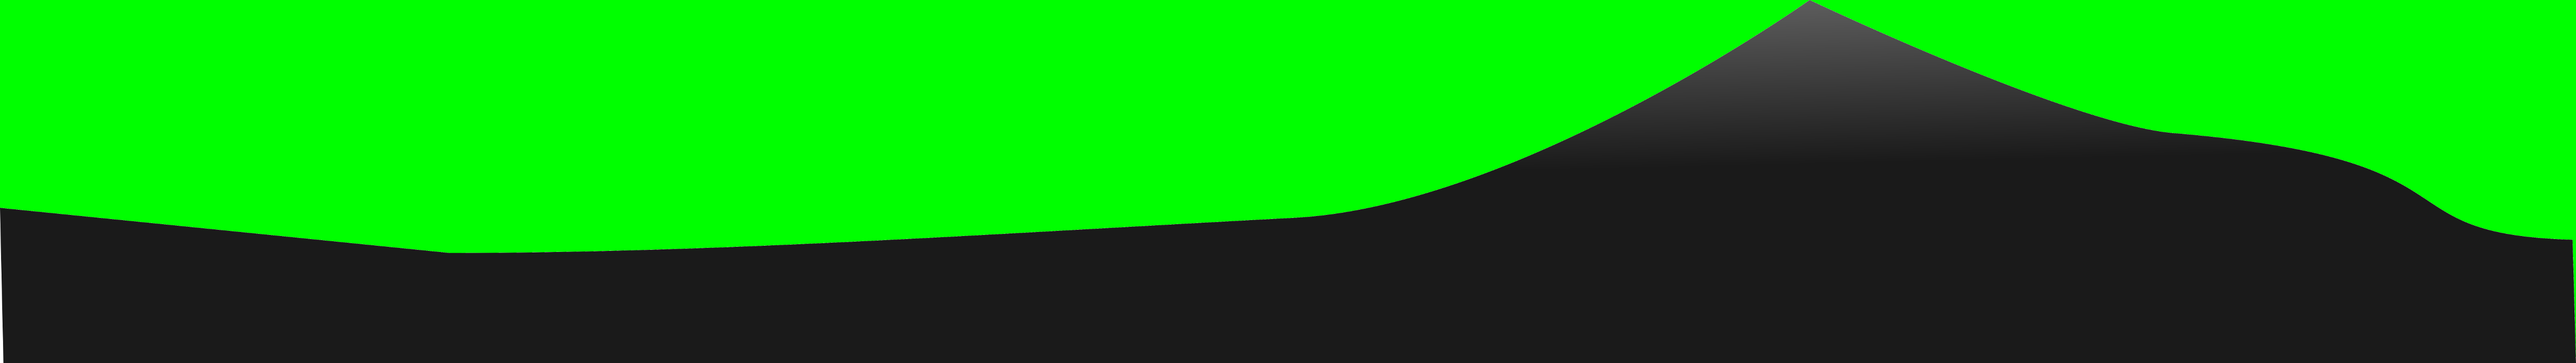
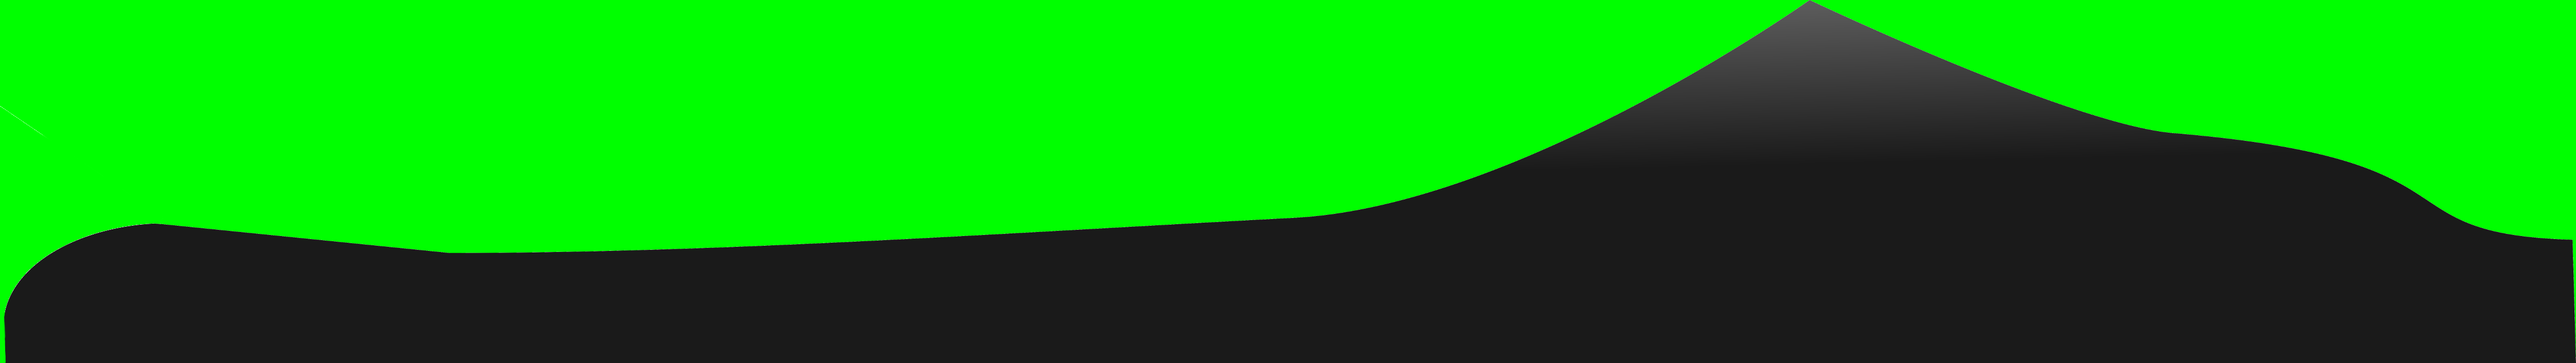
Updated seamless background, and edited level work that still is incomplete

Changed region(s): [[0.0, 0.5609, 0.0624, 0.8414]]

diff --git a/karenS.cpp b/karenS.cpp
@@ -2,6 +2,16 @@
 //Modified Date: 6/24/2017
 //Week 4
 //On this program, I am in charge of the background.
+//===============================================================
+//Week 7
+//Changed made: Added code for tiles, still need to edit
+//
+//===============================================================
+//Week 8
+//Changes made: Fixed parallax scrolling
+//              Added the ground by rendering it
+//              Tiles are currently being fixed
+//===============================================================
 #include <stdio.h>
 #include <stdlib.h>
 #include <string.h>
@@ -11,6 +21,7 @@
 #include <X11/Xlib.h>
 #include <X11/keysym.h>
 #include <GL/glx.h>
+#include <cmath>
 #include "log.h"
 #include "ppm.h"
 #include "fonts.h"
@@ -38,8 +49,9 @@ using namespace std;
         }
     }
 }
-*/
+ */
 #include <iostream>
+
 class SpriteWrapAround : public Sprite {
 public:
 
@@ -52,22 +64,36 @@ public:
 
     void draw()
     {
-        Sprite::draw();
-        std::cout << "Camera location: (" << gl.camera[0] << "," << gl.camera[1] << ")\n";
-        std::cout << "Sprite location: (" << getPosX() << "," << getPosY() << ")\n";
-        std::cout << "Sprite Dim: (" <<getWidth() << "," << getHeight() << ")\n";
-        std::cout << "resolution: (" << gl.xres << "," << gl.yres << ")\n";
-        float oldx = getPosX();        
-        float times = std::floor((-gl.camera[0]+gl.xres) / getWidth());
-        std::cout << "times: (" << times<< ")\n";
-        setPos(oldx + times * getWidth(), getPosY());
-        std::cout << "setPos1: (" << oldx + times * getWidth() << ")\n";
-        Sprite::draw();
-        //Then at this position so it wraps around
-        setPos(oldx - gl.xres + (times+1) * getWidth(), getPosY());
-        std::cout << "setPos2: (" << (oldx - gl.xres + (times+1) * getWidth()) << ")\n";
-        Sprite::draw();
-        setPos(oldx, getPosY());
+        //Calculate the sprite frame and size
+        //and location
+        float camX = -gl.camera[0];
+        float cx = posX;
+        float cy = posY;
+        float h2 = height / 2.0;
+        float repeatX = (camX - cx) / gl.xres;
+        float xc0 = 0 + repeatX;
+        float xc1 = (float) gl.xres / origWidth + repeatX;
+
+        glPushMatrix();
+        glColor3f(1.0, 1.0, 1.0);
+        glBindTexture(GL_TEXTURE_2D, glTexture);
+
+        glEnable(GL_ALPHA_TEST);
+        glAlphaFunc(GL_GREATER, 0.0f);
+        glColor4ub(255, 255, 255, 255);
+
+        glBegin(GL_QUADS);
+        glTexCoord2f(xc0, 1);
+        glVertex2i(camX, cy - h2);
+        glTexCoord2f(xc0, 0);
+        glVertex2i(camX, cy + h2);
+        glTexCoord2f(xc1, 0);
+        glVertex2i(gl.xres + camX, cy + h2);
+        glTexCoord2f(xc1, 1);
+        glVertex2i(gl.xres + camX, cy - h2);
+        glEnd();
+        glBindTexture(GL_TEXTURE_2D, 0);
+        glPopMatrix();
     }
 };
 
@@ -75,32 +101,41 @@ void initBackgroundSprites()
 {
     globalSprite.background[0] = new Sprite("bg.png", 1, 1, 1, 1, 1200, 5000);
     globalSprite.background[1] = new Sprite("moon.png", 1, 1, 1, 1, 100, 100);
-    //globalSprite.background[1]->setPos(5000 / 2, 0.8 * gl.yres);
-    globalSprite.background[2] = new SpriteWrapAround("mountain-bg.png", 513, 5000);
-    //globalSprite.background[2]->setPos(5000 / 2, 360);
-    globalSprite.background[3] = new SpriteWrapAround("mountain-fg.png", 703, 5000);
-    //globalSprite.background[3]->setPos(5000 / 2, 360);
+    globalSprite.background[1]->setPos(5000 / 2, 0.8 * gl.yres);
+    globalSprite.background[2] = new SpriteWrapAround("mountain-fg.png", 513, 5000);
+    globalSprite.background[2]->setPos(5000 / 2, 360);
+    globalSprite.background[3] = new SpriteWrapAround("mountain-bg.png", 703, 5000);
+    globalSprite.background[3]->setPos(5000 / 2, 360);
     globalSprite.background[4] = new SpriteWrapAround("treeline.png", 770, 5000);
     globalSprite.background[4]->setPos(5000 / 2, 200);
-    
+
 }
 
 void renderBackgroundSprites()
 {
-    for (int i = 1; i < 5; i++) {
+    for (int i = 0; i < 5; i++) {
         if (i == 0) {
             globalSprite.background[i]->setPos(-gl.camera[0], 600);
         } else if (i == 1) {
             globalSprite.background[i]->setPos(-gl.camera[0] + gl.xres * 0.66, gl.yres * 0.8);
         } else if (i == 2) {
-            globalSprite.background[i]->setPos(-gl.camera[0]*0.85, 360);
+            globalSprite.background[i]->setPos(-gl.camera[0]*0.1, 360);
         } else if (i == 3) {
-            globalSprite.background[i]->setPos(-gl.camera[0]*0.95, 360);
+            globalSprite.background[i]->setPos(-gl.camera[0]*0.50, 360);
+        } else {
+            globalSprite.background[i]->setPos(gl.camera[0], 250);
         }
-        globalSprite.background[i]->draw(); 
+        globalSprite.background[i]->draw();
     }
-}
 
+    glColor3ub(24, 24, 24);
+    glBegin(GL_QUADS);
+    glVertex2i(-gl.camera[0], 0);
+    glVertex2i(-gl.camera[0], 100);
+    glVertex2i(gl.xres + -gl.camera[0], 100);
+    glVertex2i(gl.xres + -gl.camera[0], 0);
+    glEnd();
+}
 
 void applyBackgroundMovement(void)
 {
@@ -111,57 +146,66 @@ void applyBackgroundMovement(void)
     //globalSprite.background[0]->setPos()
 }
 
-void Level::renderBackground(void) {
+void Level::renderBackground(void)
+{
     Flt dd = ftsz[0];
     Flt offy = tile_base;
     int ncols_to_render = gl.xres / tilesize[0] + 2;
-    int col = (int)(gl.camera[0] / dd);
+    int col = (int) (gl.camera[0] / dd);
     col = col % ncols;
-    
-    Flt cdd = gl.camera[0] /dd;
-    
+
+    Flt cdd = gl.camera[0] / dd;
+
     Flt flo = floor(cdd);
-    
+
     Flt dec = (cdd - flo);
-    
+
     Flt offx = -dec * dd;
-    
-    for(int j = 0; j < ncols_to_render; j++) {
-        int row = nrows-1;
-        for(int i = 0; i < nrows; i++) {
-            if(arr[row][col] == 'w') {
+
+    for (int j = 0; j < ncols_to_render; j++) {
+        int row = nrows - 1;
+        for (int i = 0; i < nrows; i++) {
+            if (arr[row][col] == 'w') {
                 glColor3f(0.8, 0.8, 0.6);
                 glPushMatrix();
-                Vec tr = {(Flt)j*dd+offx, (Flt)i* ftsz[1]+offy, 0};
+                glBindTexture(GL_TEXTURE_2D, 0);
+                Vec tr = {(Flt) j * dd + offx, (Flt) i * ftsz[1] + offy, 0};
                 glTranslated(tr[0], tr[1], tr[2]);
                 int tx = tilesize[0];
                 int ty = tilesize[1];
                 glBegin(GL_QUADS);
-                glVertex2i(0,0);
+                glTexCoord2f(0.0, 1.0);
+                glVertex2i(0, 0);
+                glTexCoord2f(0.0, 1.0);
+                glVertex2i(0, ty);
+                glTexCoord2f(0.0, 1.0);
+                glVertex2i(tx, ty);
+                glTexCoord2f(0.0, 1.0);
+                glVertex2i(tx, 0);
+                glEnd();
+                glPopMatrix();
+                glBindTexture(GL_TEXTURE_2D, 0);
+
+            }
+
+            if (arr[row][col] == 'b') {
+                glColor3f(0.9, 0.2, 0.2);
+                glPushMatrix();
+                Vec tr = {(Flt) j * dd + offx, (Flt) i * ftsz[i] + offy, 0};
+                glTranslated(tr[0], tr[1], tr[2]);
+                int tx = tilesize[0];
+                int ty = tilesize[1];
+                glBegin(GL_QUADS);
+                glVertex2i(0, 0);
                 glVertex2i(0, ty);
                 glVertex2i(tx, ty);
                 glVertex2i(tx, 0);
                 glEnd();
                 glPopMatrix();
-            }
-            
-            if(arr[row][col] == 'b') {
-                glColor3f(0.9, 0.2, 0.2);
-                glPushMatrix();
-                Vec tr = { (Flt)j*dd+offx, (Flt)i*ftsz[i]+offy, 0};
-                glTranslated(tr[0],tr[1],tr[2]);
-                int tx = tilesize[0];
-                int ty = tilesize[1];
-                glBegin(GL_QUADS);
-                glVertex2i( 0,  0);
-                glVertex2i( 0, ty);
-                glVertex2i(tx, ty);
-                glVertex2i(tx,  0);
-                glEnd();
-                glPopMatrix();
+                glBindTexture(GL_TEXTURE_2D, 0);
             }
             --row;
-            
+
         }
         ++col;
         col = col % ncols;
@@ -174,7 +218,7 @@ void Level::renderBackground(void) {
 
 
 //rendering the Background
-void renderBackground(void) {
+/*void renderBackground(void) {
         Rect r;
         //Clear the screen
         glClearColor(0.2, 0.2, 0.1, 1.0);
@@ -236,7 +280,7 @@ void renderBackground(void) {
         ggprint8b(&r, 16, c, "right arrow -> walk right");
         ggprint8b(&r, 16, c, "left arrow  <- walk left");
         ggprint8b(&r, 16, c, "frame: %i", gl.walkFrame);
-        
+
 }
 
 //Will display background color variation
@@ -283,3 +327,4 @@ void drawFlashlightPower(float power) {
                 glVertex2f(0, power);
         glEnd();
 }
+ */

diff --git a/game.h b/game.h
@@ -65,6 +65,7 @@ inline void recordTime(struct timespec *t)
  * Sprite animation class
  */
 class Sprite {
+protected:
     GLuint glTexture;
     int frameCount;
     int rows;
@@ -100,7 +101,7 @@ public:
     double getDelay();
     float getPosY();
     float getPosX();
-    void draw();
+    virtual void draw();
     void physics();
     void setVisible(bool value);
     bool getVisible();
